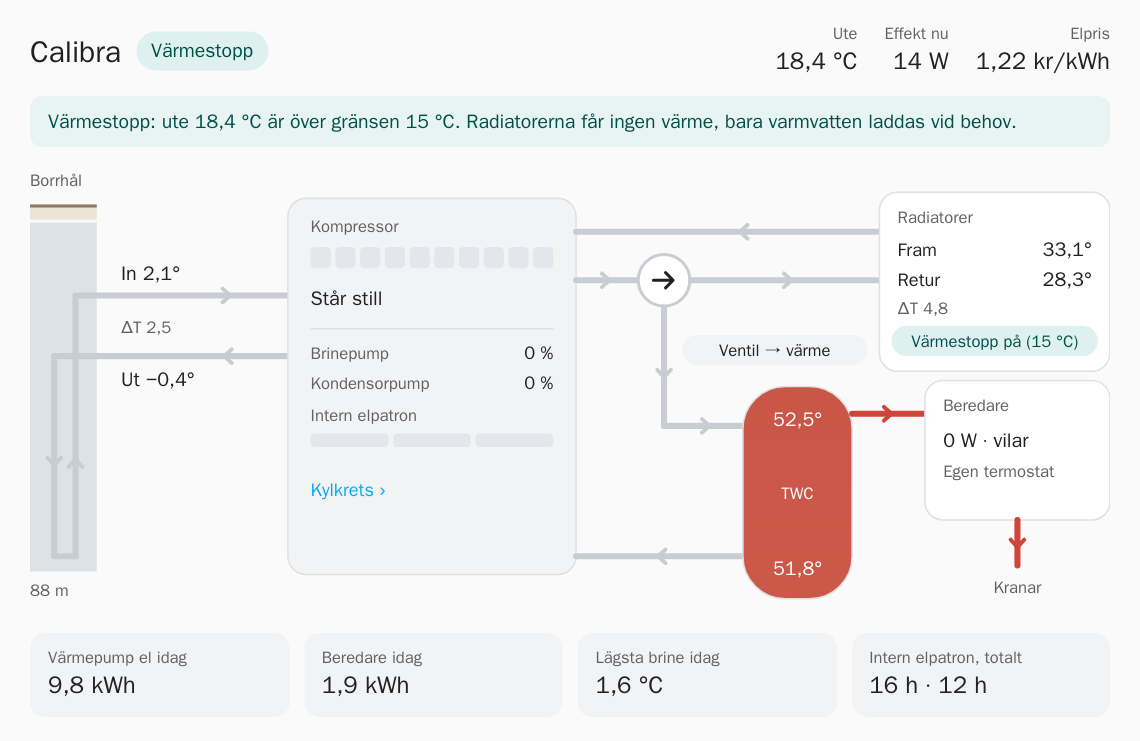
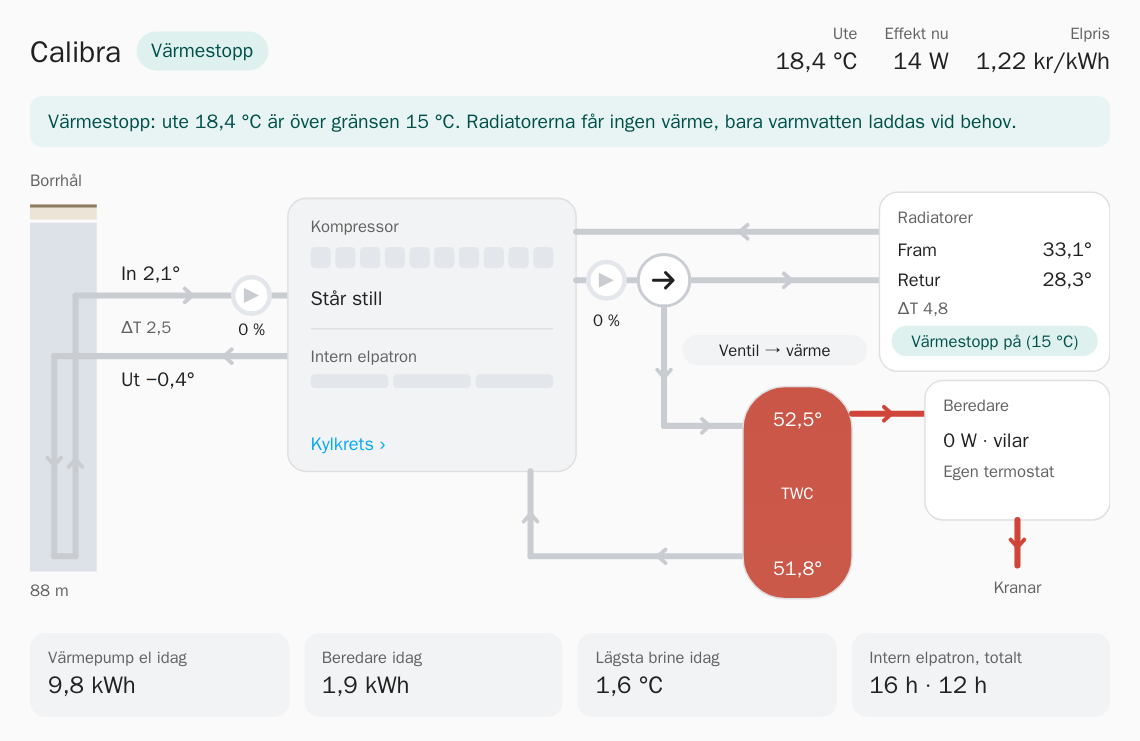
Pump symbols for the brine and condenser pumps (0.3.0)

diff --git a/dist/calibra-card.js b/dist/calibra-card.js
@@ -9,7 +9,7 @@
  * MIT License
  */
 
-const CARD_VERSION = "0.2.2";
+const CARD_VERSION = "0.3.0";
 
 // Entity defaults: the thermiagenesis entity ids. Anything else (power meter, price, the
 // valve, the water heater) is site specific and only shown when configured.
@@ -278,6 +278,7 @@ class CalibraCard extends HTMLElement {
       compText: running ? `${fmt(n("compressor_pct"), 0, "%", lang)} · ${fmt(n("compressor_rpm"), 0, "rpm", lang)}` : t.stopped,
       compShort: running ? fmt(n("compressor_pct"), 0, "%", lang) : t.stopped,
       brinePump: fmt(n("brine_pump"), 0, "%", lang), condPump: fmt(n("condenser_pump"), 0, "%", lang),
+      brinePct: n("brine_pump"), condPct: n("condenser_pump"),
       immersion: e.immersion ? this._immersionModel(immersion) : null,
       supply: heatOn || heatStop ? fmt(n("condenser_out"), 1, "°", lang) : fmt(n("condenser_out"), 1, "°", lang),
       ret: fmt(n("condenser_in"), 1, "°", lang),
@@ -355,10 +356,18 @@ class CalibraCard extends HTMLElement {
       const st = m.immersion.steps, w = (160 - 3 * (st.length - 1)) / st.length;
       return st.map((on, i) => `<rect x="${(x + i * (w + 3)).toFixed(2)}" y="${y}" width="${w.toFixed(2)}" height="${h}" rx="3" fill="${on ? c.immersion : "var(--calibra-seg, #e3e6ea)"}"/>`).join("");
     };
-    const hpRows = [
-      [t.brinePump, m.brinePump, e.brine_pump],
-      [t.condPump, m.condPump, e.condenser_pump],
-    ];
+    // Pump symbol: a ring filled to the speed, with an impeller that spins while running
+    const pumpSym = (cx, cy, pct, color, ent) => {
+      const r = 12, circ = 2 * Math.PI * r, k = Math.max(0, Math.min(100, pct || 0)) / 100;
+      const spin = k > 0 ? ` style="animation-duration:${(2.4 - 1.8 * k).toFixed(2)}s"` : "";   // faster at higher speed
+      return `<g class="pump" data-entity="${esc(ent)}">
+        <circle cx="${cx}" cy="${cy}" r="${r}" class="pumpbg"/>
+        <circle cx="${cx}" cy="${cy}" r="${r}" fill="none" stroke="var(--calibra-seg, #e3e6ea)" stroke-width="3"/>
+        <circle cx="${cx}" cy="${cy}" r="${r}" fill="none" stroke="${k > 0 ? color : "transparent"}" stroke-width="3"
+          stroke-dasharray="${(circ * k).toFixed(1)} ${circ.toFixed(1)}" transform="rotate(-90 ${cx} ${cy})"/>
+        <g class="${k > 0 ? "spin" : ""}"${spin}><path d="M${cx - 5} ${cy - 5}l10 5-10 5z" fill="${k > 0 ? color : "var(--calibra-idle, #c9cdd2)"}"/></g>
+      </g>`;
+    };
     return `
 <svg viewBox="0 34 712 296" role="img" aria-label="${esc(t.title)}">
   <defs>
@@ -381,19 +390,18 @@ class CalibraCard extends HTMLElement {
   ${txt(60, 180, `${t.out} ${m.brineOut}`, "val", e.brine_out)}
 
   <g class="hp" data-action="detail" tabindex="0" role="button" aria-label="${esc(t.circuit)}">
-    <rect x="170" y="56" width="190" height="248" rx="12" class="box hpbox"/>
+    <rect x="170" y="56" width="190" height="180" rx="12" class="box hpbox"/>
     ${txt(185, 78, t.compressor, "lbl")}
     ${segs}
     ${txt(185, 126, m.compText, "val full", e.compressor_pct)}${txt(185, 130, m.compShort, "val big short", e.compressor_pct)}
     <line x1="185" y1="142" x2="345" y2="142" class="div opt"/>
-    ${hpRows.map(([l, v, ent], i) => `${txt(185, 162 + i * 20, l, "lbl opt")}${txt(345, 162 + i * 20, v, "sm opt", ent, "end")}`).join("")}
-    ${m.immersion ? `<g class="opt" data-entity="${esc(e.immersion)}">${m.immersion.on ? `<rect x="179" y="189" width="172" height="38" rx="6" fill="var(--calibra-warn-bg, #fff4dc)"/>` : ""}
-      ${txt(185, 203, t.immersion, m.immersion.on ? "sm warn" : "lbl")}${txt(345, 203, m.immersion.text, m.immersion.on ? "sm warn strong" : "sm", e.immersion, "end")}
-      ${immBar(185, 211, 9)}</g>
-    <g class="short imm-compact" data-entity="${esc(e.immersion)}">${m.immersion.on ? `<rect x="179" y="162" width="172" height="46" rx="6" fill="var(--calibra-warn-bg, #fff4dc)"/>` : ""}
-      ${txt(185, 183, t.immersionShort, m.immersion.on ? "lbl warn" : "lbl")}${txt(345, 183, m.immersion.short, m.immersion.on ? "sm warn strong" : "sm", e.immersion, "end")}
-      ${immBar(185, 192, 10)}</g>` : ""}
-    ${txt(185, 252, t.circuit, "link")}
+    ${m.immersion ? `<g class="opt" data-entity="${esc(e.immersion)}">${m.immersion.on ? `<rect x="179" y="150" width="172" height="38" rx="6" fill="var(--calibra-warn-bg, #fff4dc)"/>` : ""}
+      ${txt(185, 164, t.immersion, m.immersion.on ? "sm warn" : "lbl")}${txt(345, 164, m.immersion.text, m.immersion.on ? "sm warn strong" : "sm", e.immersion, "end")}
+      ${immBar(185, 172, 9)}</g>
+    <g class="short imm-compact" data-entity="${esc(e.immersion)}">${m.immersion.on ? `<rect x="179" y="142" width="172" height="46" rx="6" fill="var(--calibra-warn-bg, #fff4dc)"/>` : ""}
+      ${txt(185, 163, t.immersionShort, m.immersion.on ? "lbl warn" : "lbl")}${txt(345, 163, m.immersion.short, m.immersion.on ? "sm warn strong" : "sm", e.immersion, "end")}
+      ${immBar(185, 172, 10)}</g>` : ""}
+    ${txt(185, 222, t.circuit, "link")}
   </g>
 
   ${pipe(360, 78, 560, 78, col.heatRet)}
@@ -403,7 +411,7 @@ class CalibraCard extends HTMLElement {
   ${pipe(436, 110, 560, 110, col.heat)}
   ${pipe(418, 128, 418, 206, col.hw)}${pipe(418, 206, 470, 206, col.hw)}
   <g${e.valve ? ` data-entity="${esc(e.valve)}"` : ""}><rect x="430" y="146" width="122" height="20" rx="10" class="pill opt"/>${txt(491, 160, `${t.valve} ${m.valveTap ? t.toTap : t.toHeat}`, "xs opt", "", "middle")}</g>
-  ${pipe(360, 292, 470, 292, col.hwRet)}
+  ${pipe(330, 292, 470, 292, col.hwRet)}${pipe(330, 236, 330, 292, col.hwRet)}
 
   <g class="${m.heatOn || m.heatStop ? "" : "dim"}">
     <rect x="560" y="52" width="152" height="118" rx="12" class="box"/>
@@ -431,10 +439,10 @@ class CalibraCard extends HTMLElement {
   ${arrow(566, 198, 0, col.tap)}${arrow(651, 284, 90, col.tap)}` : `
   ${pipe(542, 198, 600, 198, col.tap)}${txt(606, 202, t.taps, "lbl")}${arrow(570, 198, 0, col.tap)}`}
 
-  ${arrow(130, 120, 0, col.bIn)}${arrow(130, 160, 180, col.bOut)}
+  ${arrow(105, 120, 0, col.bIn)}${pumpSym(146, 120, m.brinePct, c.brineIn, e.brine_pump)}${txt(146, 146, m.brinePump, "xs", e.brine_pump, "middle")}${arrow(130, 160, 180, col.bOut)}
   ${arrow(16, 230, 90, col.bOut)}${arrow(30, 230, 270, col.bIn)}
-  ${arrow(380, 110, 0, col.sup)}${arrow(500, 110, 0, col.heat)}${arrow(470, 78, 180, col.heatRet)}
-  ${arrow(418, 172, 90, col.hw)}${arrow(446, 206, 0, col.hw)}${arrow(416, 292, 180, col.hwRet)}
+  ${pumpSym(380, 110, m.condPct, col.sup === c.idle ? c.heat : col.sup, e.condenser_pump)}${txt(380, 140, m.condPump, "xs", e.condenser_pump, "middle")}${arrow(500, 110, 0, col.heat)}${arrow(470, 78, 180, col.heatRet)}
+  ${arrow(418, 172, 90, col.hw)}${arrow(446, 206, 0, col.hw)}${arrow(416, 292, 180, col.hwRet)}${arrow(330, 266, 270, col.hwRet)}
 </svg>`;
   }
 
@@ -552,6 +560,7 @@ const STYLE = `
 .compact svg text { font-size: 20px; }
 .compact svg text.lbl, .compact svg text.link { font-size: 18px; }
 .compact svg text.sm { font-size: 17px; }
+.compact svg text.xs { font-size: 16px; }
 .compact svg text.val, .compact svg text.big { font-size: 22px; }
 .compact .hstats { width: 100%; justify-content: space-between; }
 .compact .hstat { align-items: flex-start; }
@@ -579,6 +588,11 @@ svg .pill { fill: var(--secondary-background-color, #f1f3f4); }
 svg .pill.stop { fill: #dff1ef; }
 svg .valve { fill: var(--card-background-color, #fff); stroke-width: 2; }
 svg .valve-arrow { stroke: var(--primary-text-color); }
+svg .pumpbg { fill: var(--card-background-color, #fff); }
+svg .pump { cursor: pointer; }
+svg .spin { transform-box: fill-box; transform-origin: center; animation: calibra-spin 1.2s linear infinite; }
+@keyframes calibra-spin { to { transform: rotate(360deg); } }
+@media (prefers-reduced-motion: reduce) { svg .spin { animation: none; } }
 svg .dim text { opacity: 0.6; }
 .stats { display: grid; grid-template-columns: repeat(auto-fit, minmax(140px, 1fr)); gap: 10px; }
 .stat { padding: 10px 12px; border-radius: 10px; background: var(--secondary-background-color); cursor: pointer; }

diff --git a/test/card.test.js b/test/card.test.js
@@ -208,3 +208,14 @@ test("immersion heater steps are drawn like gears", () => {
   assert.deepEqual(off.steps, [false, false, false]);
   assert.equal(off.text, "");
 });
+
+test("brine and condenser pumps are drawn as symbols filled to their speed", () => {
+  const h = html(card());
+  assert.equal(count(h, 'class="pump"'), 2);
+  assert.match(h, /data-entity="sensor.diplomat_inverter_duo_brine_circulation_pump_speed">62 %</);
+  assert.match(h, /data-entity="sensor.diplomat_inverter_duo_condenser_circulation_pump_speed">55 %</);
+  assert.equal(count(h, 'class="spin"'), 2);
+  assert.ok(!h.includes(">Brinepump<"));
+  const idle = html(card({ "sensor.diplomat_inverter_duo_brine_circulation_pump_speed": "0" }));
+  assert.equal(count(idle, 'class="spin"'), 1);
+});

diff --git a/test/shots.js b/test/shots.js
@@ -10,7 +10,7 @@ const SHOTS = [
 
 (async () => {
   const browser = await chromium.launch();
-  const page = await browser.newPage({ viewport: { width: 800, height: 900 }, deviceScaleFactor: 1.5 });
+  const page = await browser.newPage({ viewport: { width: 800, height: 900 }, deviceScaleFactor: 1.5, reducedMotion: "reduce" });
   for (const [mode, theme, width] of SHOTS) {
     await page.goto(`file://${__dirname}/preview.html?mode=${mode}&theme=${theme}&width=${width}`);
     const el = await page.$("#host");

diff --git a/README.md b/README.md
@@ -5,7 +5,8 @@ A Lovelace card for a **Thermia Calibra / Diplomat Inverter** ground source heat
 It draws the system as it is actually plumbed:
 
 - **Borehole:** brine in and out, ΔT, and the depth.
-- **Compressor:** current gear against the allowed maximum (blocked gears are hatched), speed and pumps.
+- **Compressor:** current gear against the allowed maximum (blocked gears are hatched) and speed.
+- **Pumps:** the brine pump on the brine line and the condenser pump on the supply, each drawn as a pump whose ring fills with its speed. The impeller spins faster at higher speed; it stays still with reduced motion.
 - **Internal immersion heater:** its active step, drawn as a bar like the gears.
 - **Diverting valve:** splits the supply between the radiators and the TWC tank. The arrow turns and the inactive branch greys out.
 - **Radiators:** supply, return, ΔT and heating stop (on/off and its limit).

diff --git a/CHANGELOG.md b/CHANGELOG.md
@@ -1,5 +1,10 @@
 # Changelog
 
+## 0.3.0 — 2026-10-24
+
+- Brine and condenser pumps are drawn on their pipes as pump symbols: a ring filled to the speed, the percentage below, and an impeller that spins faster at higher speed (still with reduced motion). The pump rows in the compressor box are gone.
+- The compressor box is shorter; the tank return enters it from below.
+
 ## 0.2.2 — 2026-10-24
 
 - The immersion heater row drops its "steg X av Y" text too; the bar shows the step. With `immersion_step_kw` the row shows the current power instead. The whole row opens the sensor's more-info.
